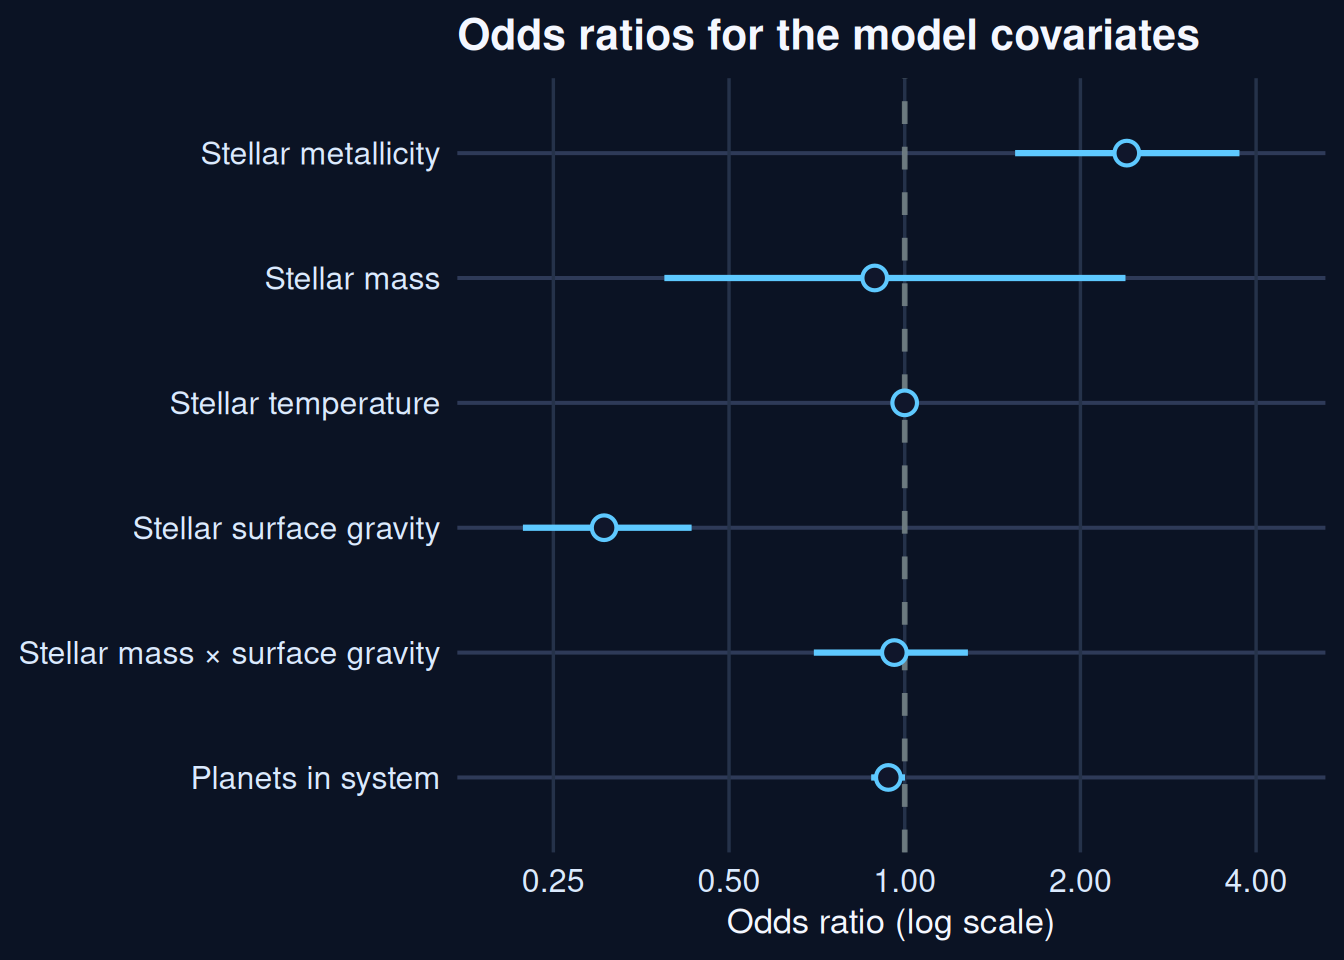
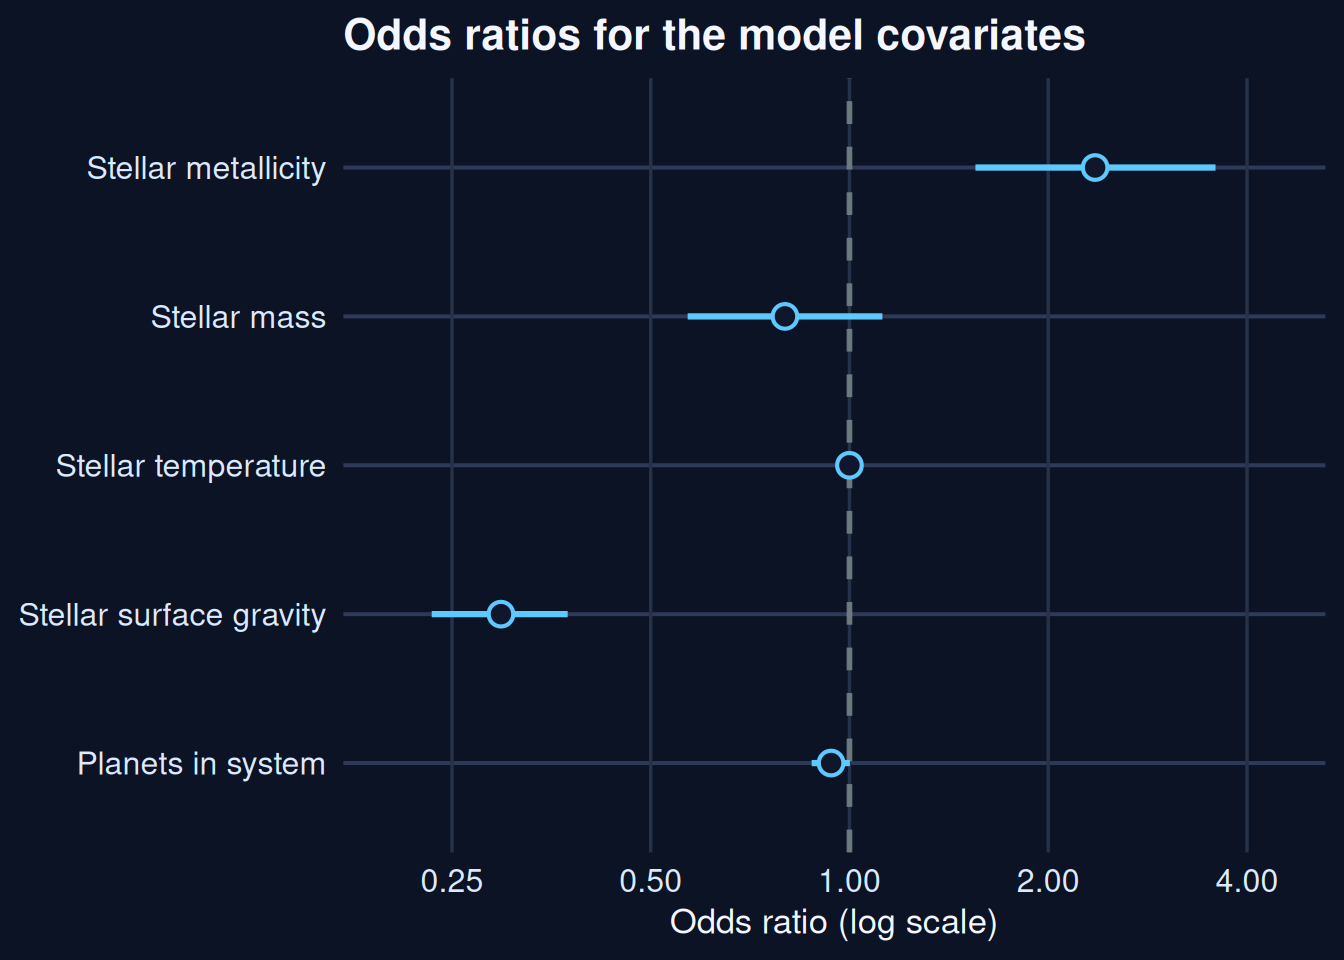
removed multicollinearity

diff --git a/_site/methodology.html b/_site/methodology.html
@@ -189,17 +189,12 @@ window.Quarto = {
 
 <p>In this analysis, I define a binary outcome for orbital eccentricity and use a small set of stellar and system-level features to prepare a simple classification task. The goal is to build a clean training and testing split so the model can later be fit and evaluated on whether a planet is more likely to be in an eccentric versus circular orbit.</p>
 <p>This logistic regression model was fit on the training set to estimate how the selected stellar and system features relate to the probability that a planet is eccentric. The coefficients and p-values show which predictors appear most associated with the outcome, while the odds ratios quantify the strength and direction of each covariate’s association with eccentricity.</p>
-<p>The predictors are chosen because they reflect physically meaningful properties of the host star and its planetary system. Stellar metallicity traces the abundance of elements heavier than hydrogen and helium, which can affect the amount of solid material available for planet formation and the architecture of the resulting planetary system. Stellar mass and effective temperature describe the star’s gravitational and radiative environment, while surface gravity measures how strongly the stellar photosphere is bound to the star. Because surface gravity is tied to stellar structure through</p>
-<p><span class="math display">\[
-g_\star \propto M_\star,
-\]</span></p>
-<p>it is reasonable to allow the effect of mass to vary with surface gravity. That is why I include a mass-by-surface-gravity interaction term, which lets the model capture a joint dependence between these two stellar properties.</p>
+<p>The predictors are chosen because they reflect physically meaningful properties of the host star and its planetary system. Stellar metallicity traces the abundance of elements heavier than hydrogen and helium, which can affect the amount of solid material available for planet formation and the architecture of the resulting planetary system. Stellar mass and effective temperature describe the star’s gravitational and radiative environment, while surface gravity measures how strongly the stellar photosphere is bound to the star and captures information about the star’s compactness and internal structure.</p>
 <p>The model can be written as:</p>
 <p><span class="math display">\[
-\operatorname{logit}(p_i)=\beta_0+\beta_1\,\text{st\_met}_i+\beta_2\,\text{st\_mass}_i+\beta_3\,\text{st\_teff}_i+\beta_4\,\text{st\_logg}_i+\beta_5\,\text{st\_mass\_logg}_i+\beta_6\,\text{sy\_pnum}_i,
+\operatorname{logit}(p_i)=\beta_0+\beta_1\,\text{st\_met}_i+\beta_2\,\text{st\_mass}_i+\beta_3\,\text{st\_teff}_i+\beta_4\,\text{st\_logg}_i+\beta_5\,\text{sy\_pnum}_i,
 \]</span></p>
-<p>where the interaction term is defined as the product of stellar mass and surface gravity.</p>
-<p>Each covariate carries a distinct astrophysical interpretation. Stellar metallicity is a proxy for the chemical enrichment of the protoplanetary disk. Stellar mass sets the star’s scale and evolutionary context. Effective temperature reflects the star’s radiative output and the thermal environment of the system. Surface gravity tracks the star’s compactness and internal structure. The interaction term allows the influence of stellar mass to change depending on surface gravity, and the number of planets in the system captures the possibility that multiplicity and dynamical interactions may help shape orbital eccentricity.</p>
+<p>Each covariate carries a distinct astrophysical interpretation. Stellar metallicity is a proxy for the chemical enrichment of the protoplanetary disk. Stellar mass sets the star’s scale and evolutionary context. Effective temperature reflects the star’s radiative output and the thermal environment of the system. Surface gravity tracks the star’s compactness and internal structure, while the number of planets in the system captures the possibility that multiplicity and dynamical interactions may help shape orbital eccentricity.</p>
 <section id="data-preparation" class="level2">
 <h2 class="anchored" data-anchor-id="data-preparation">Data preparation</h2>
 <p>This step creates the modeling dataset by converting orbital eccentricity into a binary response and selecting the predictors used in the model. The outcome is coded as 1 when the orbital eccentricity is at least 0.1 and 0 as otherwise.</p>
@@ -258,59 +253,51 @@ g_\star \propto M_\star,
 <tbody>
 <tr class="odd">
 <td style="text-align: left;">(Intercept)</td>
-<td style="text-align: right;">5.1296</td>
-<td style="text-align: right;">0.9039</td>
-<td style="text-align: right;">5.6752</td>
+<td style="text-align: right;">5.3060</td>
+<td style="text-align: right;">0.6173</td>
+<td style="text-align: right;">8.5959</td>
 <td style="text-align: right;">0.0000</td>
-<td style="text-align: right;">168.9483</td>
+<td style="text-align: right;">201.5366</td>
 </tr>
 <tr class="even">
 <td style="text-align: left;">st_met</td>
-<td style="text-align: right;">0.8763</td>
-<td style="text-align: right;">0.2257</td>
-<td style="text-align: right;">3.8818</td>
+<td style="text-align: right;">0.8567</td>
+<td style="text-align: right;">0.2136</td>
+<td style="text-align: right;">4.0115</td>
 <td style="text-align: right;">0.0001</td>
-<td style="text-align: right;">2.4019</td>
+<td style="text-align: right;">2.3553</td>
 </tr>
 <tr class="odd">
 <td style="text-align: left;">st_mass</td>
-<td style="text-align: right;">-0.1184</td>
-<td style="text-align: right;">0.4343</td>
-<td style="text-align: right;">-0.2726</td>
-<td style="text-align: right;">0.7852</td>
-<td style="text-align: right;">0.8884</td>
+<td style="text-align: right;">-0.2250</td>
+<td style="text-align: right;">0.1674</td>
+<td style="text-align: right;">-1.3439</td>
+<td style="text-align: right;">0.1790</td>
+<td style="text-align: right;">0.7985</td>
 </tr>
 <tr class="even">
 <td style="text-align: left;">st_teff</td>
 <td style="text-align: right;">-0.0002</td>
 <td style="text-align: right;">0.0001</td>
-<td style="text-align: right;">-1.5732</td>
-<td style="text-align: right;">0.1157</td>
+<td style="text-align: right;">-2.9725</td>
+<td style="text-align: right;">0.0030</td>
 <td style="text-align: right;">0.9998</td>
 </tr>
 <tr class="odd">
 <td style="text-align: left;">st_logg</td>
-<td style="text-align: right;">-1.1860</td>
-<td style="text-align: right;">0.1637</td>
-<td style="text-align: right;">-7.2457</td>
+<td style="text-align: right;">-1.2154</td>
+<td style="text-align: right;">0.1204</td>
+<td style="text-align: right;">-10.0952</td>
 <td style="text-align: right;">0.0000</td>
-<td style="text-align: right;">0.3054</td>
+<td style="text-align: right;">0.2966</td>
 </tr>
 <tr class="even">
-<td style="text-align: left;">st_mass_logg</td>
-<td style="text-align: right;">-0.0409</td>
-<td style="text-align: right;">0.1524</td>
-<td style="text-align: right;">-0.2683</td>
-<td style="text-align: right;">0.7885</td>
-<td style="text-align: right;">0.9599</td>
-</tr>
-<tr class="odd">
 <td style="text-align: left;">sy_pnum</td>
-<td style="text-align: right;">-0.0646</td>
-<td style="text-align: right;">0.0341</td>
-<td style="text-align: right;">-1.8980</td>
-<td style="text-align: right;">0.0577</td>
-<td style="text-align: right;">0.9374</td>
+<td style="text-align: right;">-0.0642</td>
+<td style="text-align: right;">0.0340</td>
+<td style="text-align: right;">-1.8869</td>
+<td style="text-align: right;">0.0592</td>
+<td style="text-align: right;">0.9379</td>
 </tr>
 </tbody>
 </table>
@@ -334,45 +321,39 @@ g_\star \propto M_\star,
 <tbody>
 <tr class="odd">
 <td style="text-align: left;">(Intercept)</td>
-<td style="text-align: right;">168.9483</td>
-<td style="text-align: right;">26.1024</td>
-<td style="text-align: right;">988.4713</td>
+<td style="text-align: right;">201.5366</td>
+<td style="text-align: right;">61.3989</td>
+<td style="text-align: right;">694.0948</td>
 </tr>
 <tr class="even">
 <td style="text-align: left;">st_met</td>
-<td style="text-align: right;">2.4019</td>
-<td style="text-align: right;">1.5459</td>
-<td style="text-align: right;">3.7461</td>
+<td style="text-align: right;">2.3553</td>
+<td style="text-align: right;">1.5515</td>
+<td style="text-align: right;">3.5843</td>
 </tr>
 <tr class="odd">
 <td style="text-align: left;">st_mass</td>
-<td style="text-align: right;">0.8884</td>
-<td style="text-align: right;">0.3874</td>
-<td style="text-align: right;">2.3893</td>
+<td style="text-align: right;">0.7985</td>
+<td style="text-align: right;">0.5687</td>
+<td style="text-align: right;">1.1217</td>
 </tr>
 <tr class="even">
 <td style="text-align: left;">st_teff</td>
 <td style="text-align: right;">0.9998</td>
 <td style="text-align: right;">0.9997</td>
-<td style="text-align: right;">1.0000</td>
+<td style="text-align: right;">0.9999</td>
 </tr>
 <tr class="odd">
 <td style="text-align: left;">st_logg</td>
-<td style="text-align: right;">0.3054</td>
-<td style="text-align: right;">0.2217</td>
-<td style="text-align: right;">0.4314</td>
+<td style="text-align: right;">0.2966</td>
+<td style="text-align: right;">0.2329</td>
+<td style="text-align: right;">0.3743</td>
 </tr>
 <tr class="even">
-<td style="text-align: left;">st_mass_logg</td>
-<td style="text-align: right;">0.9599</td>
-<td style="text-align: right;">0.6987</td>
-<td style="text-align: right;">1.2831</td>
-</tr>
-<tr class="odd">
 <td style="text-align: left;">sy_pnum</td>
-<td style="text-align: right;">0.9374</td>
-<td style="text-align: right;">0.8760</td>
-<td style="text-align: right;">1.0012</td>
+<td style="text-align: right;">0.9379</td>
+<td style="text-align: right;">0.8765</td>
+<td style="text-align: right;">1.0016</td>
 </tr>
 </tbody>
 </table>
@@ -457,7 +438,7 @@ g_\star \propto M_\star,
     }
       var localhostRegex = new RegExp(/^(?:http|https):\/\/localhost\:?[0-9]*\//);
       var mailtoRegex = new RegExp(/^mailto:/);
-        var filterRegex = new RegExp("https:\/\/sp3101-3\.github\.io\/habitable-planets\/");
+        var filterRegex = new RegExp('/' + window.location.host + '/');
       var isInternal = (href) => {
           return filterRegex.test(href) || localhostRegex.test(href) || mailtoRegex.test(href);
       }

diff --git a/_site/index.html b/_site/index.html
@@ -213,7 +213,6 @@ window.Quarto = {
 <ul>
 <li>Stellar metallicity: odds ratio of 2.40, with a 95% interval from 1.55 to 3.75.</li>
 <li>Stellar surface gravity: odds ratio of 0.31, with a 95% interval from 0.22 to 0.43.</li>
-<li>The interaction term between stellar mass and surface gravity was small and not statistically significant.</li>
 </ul>
 <p>The figure below summarizes the estimated effects of the variables in the model. Values above 1 indicate higher odds of an eccentric orbit, while values below 1 indicate lower odds, holding the other variables fixed. These estimates are the same values reported in the odds-ratio table on the methodology page.</p>
 <div class="cell">
@@ -225,7 +224,7 @@ window.Quarto = {
 </div>
 </div>
 </div>
-<p>Metallicity and surface gravity were the clearest predictors in this model. The interaction term between stellar mass and surface gravity was small and not statistically significant.</p>
+<p>Metallicity and surface gravity were the clearest predictors in this model.</p>
 </section>
 <section id="prediction-quality" class="level3">
 <h3 class="anchored" data-anchor-id="prediction-quality">Prediction quality</h3>
@@ -291,10 +290,6 @@ window.Quarto = {
 <ul>
 <li>A plausible explanation is that metallicity reflects the chemical enrichment of the protoplanetary disk, which may influence how planets form and how dynamically complex their orbits become.</li>
 <li>Surface gravity may proxy for stellar structure and evolutionary context, which can shape the broader architecture of the system in ways that affect orbital eccentricity.</li>
-</ul></li>
-<li>The interaction term between stellar mass and surface gravity did not add much to the model.
-<ul>
-<li>This may indicate that the separate effects of stellar mass and surface gravity are already largely captured by the main terms, or that the available data do not provide enough resolution to reveal a strong joint effect.</li>
 </ul></li>
 <li>The results suggest that basic star-system measurements provide useful information, but they do not fully determine eccentricity.
 <ul>
@@ -389,7 +384,7 @@ window.Quarto = {
     }
       var localhostRegex = new RegExp(/^(?:http|https):\/\/localhost\:?[0-9]*\//);
       var mailtoRegex = new RegExp(/^mailto:/);
-        var filterRegex = new RegExp("https:\/\/sp3101-3\.github\.io\/habitable-planets\/");
+        var filterRegex = new RegExp('/' + window.location.host + '/');
       var isInternal = (href) => {
           return filterRegex.test(href) || localhostRegex.test(href) || mailtoRegex.test(href);
       }

diff --git a/_site/about.html b/_site/about.html
@@ -225,7 +225,7 @@ ul.task-list li input[type="checkbox"] {
     }
       var localhostRegex = new RegExp(/^(?:http|https):\/\/localhost\:?[0-9]*\//);
       var mailtoRegex = new RegExp(/^mailto:/);
-        var filterRegex = new RegExp("https:\/\/sp3101-3\.github\.io\/habitable-planets\/");
+        var filterRegex = new RegExp('/' + window.location.host + '/');
       var isInternal = (href) => {
           return filterRegex.test(href) || localhostRegex.test(href) || mailtoRegex.test(href);
       }
